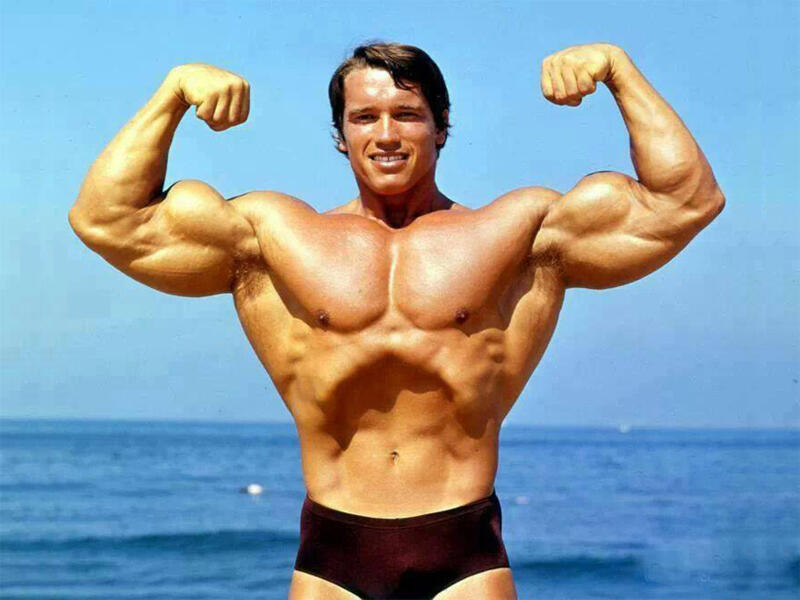
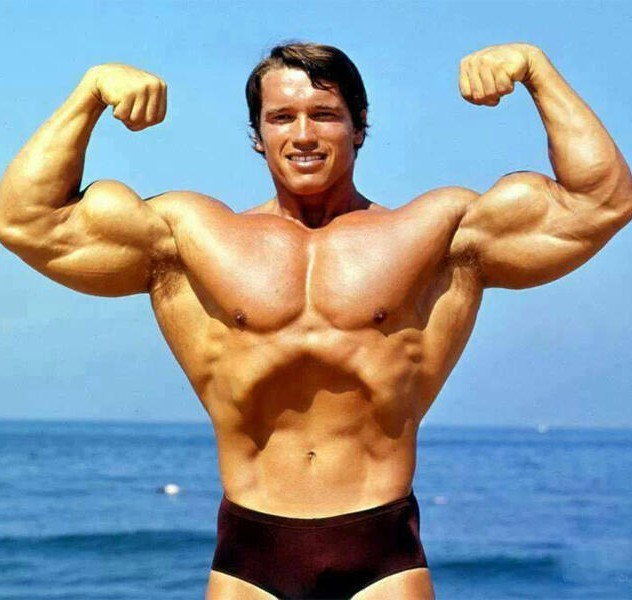
Added responsiveness

diff --git a/2.assigment/Ynetwork/public/css/Utils.css b/2.assigment/Ynetwork/public/css/Utils.css
@@ -1,0 +1,5 @@
+.center{
+    display: flex;
+    justify-content: center;
+    align-items: center;
+}

diff --git a/2.assigment/Ynetwork/resources/views/user/profile.blade.php b/2.assigment/Ynetwork/resources/views/user/profile.blade.php
@@ -4,7 +4,9 @@
 <head>
     <meta charset="UTF-8">
     <title>Profile</title>
+    <meta name="viewport" content="width=device-width, initial-scale=1">
     <link rel="icon" type="image/x-icon" href="../Images/Logo2.png">
+    <link rel="stylesheet" href="{{ asset('css/Utils.css') }}">
     <link rel="stylesheet" href="https://www.w3schools.com/w3css/5/w3.css">
     <link rel="stylesheet" href="https://cdnjs.cloudflare.com/ajax/libs/font-awesome/4.7.0/css/font-awesome.min.css">
     <link rel="stylesheet" href="{{ asset('css/SearchStyle.css') }}">
@@ -48,7 +50,7 @@
         <div class="w3-cell w3-cell-middle w3-left-align">
             <a href="{{ route('user.for-you') }}" class="w3-hover-opacity">
                 <img src="{{ asset('Images/Logo2.png') }}" alt="Logo" class="w3-image w3-hover-opacity logo-hover"
-                    style="height:80px;">
+                    style="height:80px; object-fit:cover; vertical-align:middle;">
             </a>
 
         </div>
@@ -61,18 +63,22 @@
                     style="position:absolute; right:10px; background:none; border:none; cursor:pointer; color:#000;">
                     <i class="fa fa-search"></i>
                 </button>
-            <div id="search-results" class="dropdown-menu show" style=" display: none; "></div>
+                <div id="search-results" class="dropdown-menu show" style=" display: none; "></div>
 
             </form>
         </div>
 
         <div class="w3-cell w3-cell-middle w3-right-align" style="width:25%;">
             <div class="w3-dropdown-hover w3-right w3-transparent">
-                  <img data-user-id="{{ auth()->user()->id }}" src="{{ auth()->user()->profile_picture }}" alt="User profile"
-                class="w3-image w3-circle" style="height:60px; object-fit:cover; vertical-align:middle;">
-                <div class="w3-dropdown-content w3-bar-block w3-border w3-border-black w3-round-xxlarge w3-animate-zoom" style="right:0">
-                <a href="{{ route('user.profile') }}" class="w3-bar-item w3-button w3-transparent w3-round-xxlarge">Profile</a>
-                <a href="{{ route('logout') }}" class="w3-bar-item w3-button w3-transparent w3-round-xxlarge">Logout</a>
+                <img data-user-id="{{ auth()->user()->id }}" src="{{ auth()->user()->profile_picture }}"
+                    alt="User profile" class="w3-image w3-circle"
+                    style="height:60px; object-fit:cover; vertical-align:middle;">
+                <div class="w3-dropdown-content w3-bar-block w3-border w3-border-black w3-round-xxlarge w3-animate-zoom"
+                    style="right:0">
+                    <a href="{{ route('user.profile') }}"
+                        class="w3-bar-item w3-button w3-transparent w3-round-xxlarge">Profile</a>
+                    <a href="{{ route('logout') }}"
+                        class="w3-bar-item w3-button w3-transparent w3-round-xxlarge">Logout</a>
                 </div>
             </div>
             <div class="w3-clear"></div>
@@ -91,18 +97,19 @@
 
         <div class="w3-row w3-margin-top ">
 
-            <div class="w3-col m3 ">
+        @if (auth()->user()->id === $profiledata->id)
+            <div class="w3-col l3 m6 s12">
+        @else
+            <div class="w3-col l12 m12 s12 center" style="margin: auto;">
+         @endif
+      
                 <x-profile-structure :profiledata="$profiledata"></x-profile-structure>
+                
             </div>
-            <div class="w3-col m7">
-                <div class="w3-col w3-center">
-
-
-                    <div class="w3-container w3-padding-small">
-
-                        @if (auth()->user()->id === $profiledata->id)
-
-
+            @if (auth()->user()->id === $profiledata->id)
+                <div class="w3-col l6 m6 s12">
+                    <div class="w3-col w3-center">
+                        <div class="w3-container w3-padding-small">
                             <div class="w3-container w3-card w3-white w3-round-xlarge w3-margin"><br>
                                 <img src="{{ auth()->user()->profile_picture }}" alt="Avatar"
                                     class="w3-left w3-circle   w3-margin-right" style="width:60px">
@@ -112,7 +119,8 @@
                                 <form action="{{ route('posts.store') }}" method="post">
                                     @csrf
 
-                                    <input class="w3-input w3-bold w3-round-xxlarge w3-padding-large w3-border-black w3-border"
+                                    <input
+                                        class="w3-input w3-bold w3-round-xxlarge w3-padding-large w3-border-black w3-border"
                                         type="text" placeholder="Post Title" id="title" name="title" required><br>
                                     <textarea class="w3-input w3-round-xxlarge w3-padding-large w3-border-black w3-border"
                                         name="body" id="body" rows="3" required
@@ -120,58 +128,48 @@
                                     <button
                                         class="w3-button w3-black w3-round-xxlarge w3-padding-large w3-block w3-margin-bottom"
                                         type="submit">Post</button>
-
                                 </form>
-
-
                             </div><br>
-
-                        @endif
-
-                        @if (auth()->user()->id === $profiledata->id)
-                            <h1 class="w3-xxxlarge w3-bold">Your Posts</h1>
-                        @else
-                        <h1 class="w3-xxxlarge w3-bold">{{ $profiledata->first_name }}'s Posts</h1>
-                        @endif
-
-
-                        @foreach ($posts as $post)
-                            <x-post-structure :post="$post" :showActions=" auth()->user()->id === $profiledata->id "/>
-                        @endforeach
-
+                        </div>
                     </div>
+                </div>
+            @endif
 
+            @if (auth()->user()->id === $profiledata->id)
+                <div class="w3-col l3 m12 s12">
+                    <div class="w3-col w3-center">
+                        <div class="w3-container w3-padding-small">
+                            <div class="w3-container w3-card w3-white w3-round-xlarge w3-margin"><br>
+                                <h4 class="w3-bold">Chats</h4>
+                            </div>
+                            <div class="w3-container w3-card w3-white w3-round-xlarge w3-margin"><br>
+                                <h4 class="w3-bold">Friend requests</h4>
+                            </div>
+                        </div>
+                    </div>
+                </div>
+            @endif
+            @if (auth()->user()->id === $profiledata->id)
+                <div class="w3-col l12 m12 s12 center" >
+            @else
+                    <div class="w3-col l12 m12 s12 center" >
+                    
+                @endif
+                <div class="w3-col w3-center" style="max-width:800px; margin:auto;">
+                    <div class="w3-container w3-padding-small"></div>
+                    @if (auth()->user()->id === $profiledata->id)
+                        <h1 class="w3-xxxlarge w3-bold">Your Posts</h1>
+                    @else
+                        <h1 class="w3-xxxlarge w3-bold">{{ $profiledata->first_name }}'s Posts</h1>
+                    @endif
+                    @foreach ($posts as $post)
+                        <x-post-structure :post="$post" :showActions="auth()->user()->id === $profiledata->id" />
+                    @endforeach
                 </div>
             </div>
-
-            <div class="w3-col m2">
-                <div class="w3-col w3-center">
-
-
-                    <div class="w3-container w3-padding-small">
-
-                        <div class="w3-container w3-card w3-white w3-round-xlarge w3-margin"><br>
-                        <h4 class="w3-bold">Chats</h4>
-
-                        </div>
-                        <div class="w3-container w3-card w3-white w3-round-xlarge w3-margin"><br>
-                        <h4 class="w3-bold">Friend requests</h4>
-
-                        </div>
-                    </div>
-
-                    </div>
-
-            </div>
-
         </div>
     </div>
-
-
-
-  
-
-
+    </div>
 </body>
 
 <footer>

diff --git a/2.assigment/Ynetwork/resources/views/user/edit-post.blade.php b/2.assigment/Ynetwork/resources/views/user/edit-post.blade.php
@@ -4,6 +4,7 @@
 <head>
     <meta charset="UTF-8">
     <title>Edit Post</title>
+    <meta name="viewport" content="width=device-width, initial-scale=1">
     <link rel="icon" type="image/x-icon" href="../Images/Logo2.png">
     <link rel="stylesheet" href="https://www.w3schools.com/w3css/5/w3.css">
     <link rel="stylesheet" href="https://cdnjs.cloudflare.com/ajax/libs/font-awesome/4.7.0/css/font-awesome.min.css">
@@ -48,7 +49,7 @@
         <div class="w3-cell w3-cell-middle w3-left-align">
             <a href="{{ route('user.for-you') }}" class="w3-hover-opacity">
                 <img src="{{ asset('Images/Logo2.png') }}" alt="Logo" class="w3-image w3-hover-opacity logo-hover"
-                    style="height:80px;">
+                    style="height:80px; object-fit:cover; vertical-align:middle;">
             </a>
 
         </div>
@@ -61,19 +62,22 @@
                     style="position:absolute; right:10px; background:none; border:none; cursor:pointer; color:#000;">
                     <i class="fa fa-search"></i>
                 </button>
-                         <div id="search-results" class="dropdown-menu show" style="width: 100%; display: none;"></div>
-    
+                <div id="search-results" class="dropdown-menu show" style="width: 100%; display: none;"></div>
+
             </form>
         </div>
-        
+
 
         <div class="w3-cell w3-cell-middle w3-right-align" style="width:25%;">
             <div class="w3-dropdown-hover w3-right w3-transparent">
-                  <img data-user-id="{{ auth()->user()->id }}" src="/profilePictures/{{ auth()->user()->id }}.png" alt="User profile"
-                class="w3-image w3-circle" style="height:60px; object-fit:cover; vertical-align:middle;">
-                <div class="w3-dropdown-content w3-bar-block w3-border w3-border-black w3-round-xxlarge w3-animate-zoom" style="right:0">
-                <a href="{{ route('user.profile') }}" class="w3-bar-item w3-button w3-transparent w3-round-xxlarge">Profile</a>
-                <a href="#" class="w3-bar-item w3-button w3-transparent w3-round-xxlarge">Logout</a>
+                <img data-user-id="{{ auth()->user()->id }}" src="{{ auth()->user()->profile_picture }}"
+                    alt="User profile" class="w3-image w3-circle"
+                    style="height:60px; object-fit:cover; vertical-align:middle;">
+                <div class="w3-dropdown-content w3-bar-block w3-border w3-border-black w3-round-xxlarge w3-animate-zoom"
+                    style="right:0">
+                    <a href="{{ route('user.profile') }}"
+                        class="w3-bar-item w3-button w3-transparent w3-round-xxlarge">Profile</a>
+                    <a href="#" class="w3-bar-item w3-button w3-transparent w3-round-xxlarge">Logout</a>
                 </div>
             </div>
             <div class="w3-clear"></div>
@@ -86,30 +90,27 @@
 </header>
 
 <body>
-    
-<div class="w3-container w3-content" style="max-width:1400px;margin-top:80px">
 
-<h2 class="w3-bold w3-center">Edit my post</h2>
+    <div class="w3-container w3-content" style="max-width:1400px;margin-top:80px">
 
-<div class="w3-container w3-card w3-white w3-round-xlarge" 
-     style="max-width:800px; margin:40px auto;"><br>
-                            
-    <form action="{{ route('posts.update', $post->id) }}" method="post">
-                    @csrf
-                    @method('PUT')
-        <input class="w3-input w3-round-xxlarge w3-padding-large w3-border-black w3-border w3-bold"
-            type="text" value="{{ $post->title }}" id="title" name="title" required><br>
-        <textarea class="w3-input w3-round-xxlarge w3-padding-large w3-border-black w3-border"
-            name="body" id="body" rows="3" required
-            >{{ $post->body }}</textarea><br>
-        <button
-            class="w3-button w3-black w3-round-xxlarge w3-padding-large w3-block w3-margin-bottom"
-            type="submit">Update Post</button>
+        <h2 class="w3-bold w3-center">Edit my post</h2>
 
-    </form>
+        <div class="w3-container w3-card w3-white w3-round-xlarge" style="max-width:800px; margin:40px auto;"><br>
 
-</div><br>
-</div>
+            <form action="{{ route('posts.update', $post->id) }}" method="post">
+                @csrf
+                @method('PUT')
+                <input class="w3-input w3-round-xxlarge w3-padding-large w3-border-black w3-border w3-bold" type="text"
+                    value="{{ $post->title }}" id="title" name="title" required><br>
+                <textarea class="w3-input w3-round-xxlarge w3-padding-large w3-border-black w3-border" name="body"
+                    id="body" rows="3" required>{{ $post->body }}</textarea><br>
+                <button class="w3-button w3-black w3-round-xxlarge w3-padding-large w3-block w3-margin-bottom"
+                    type="submit">Update Post</button>
+
+            </form>
+
+        </div><br>
+    </div>
 </body>
 
 <footer>

diff --git a/2.assigment/Ynetwork/resources/views/user/for-you.blade.php b/2.assigment/Ynetwork/resources/views/user/for-you.blade.php
@@ -4,6 +4,7 @@
 <head>
     <meta charset="UTF-8">
     <title>For you page</title>
+    <meta name="viewport" content="width=device-width, initial-scale=1">
     <link rel="icon" type="image/x-icon" href="../Images/Logo2.png">
     <link rel="stylesheet" href="https://www.w3schools.com/w3css/5/w3.css">
     <link rel="stylesheet" href="https://cdnjs.cloudflare.com/ajax/libs/font-awesome/4.7.0/css/font-awesome.min.css">
@@ -48,7 +49,7 @@
         <div class="w3-cell w3-cell-middle w3-left-align">
             <a href="{{ route('user.for-you') }}" class="w3-hover-opacity">
                 <img src="{{ asset('Images/Logo2.png') }}" alt="Logo" class="w3-image w3-hover-opacity logo-hover"
-                    style="height:80px;">
+                   style="height:80px; object-fit:cover; vertical-align:middle;">
             </a>
 
         </div>
@@ -61,19 +62,23 @@
                     style="position:absolute; right:10px; background:none; border:none; cursor:pointer; color:#000;">
                     <i class="fa fa-search"></i>
                 </button>
-                         <div id="search-results" class="dropdown-menu show" style="width: 100%; display: none;"></div>
-    
+                <div id="search-results" class="dropdown-menu show" style="width: 100%; display: none;"></div>
+
             </form>
         </div>
-        
+
 
         <div class="w3-cell w3-cell-middle w3-right-align" style="width:25%;">
             <div class="w3-dropdown-hover w3-right w3-transparent">
-                  <img data-user-id="{{ auth()->user()->id }}" src="{{ auth()->user()->profile_picture }}" alt="User profile"
-                class="w3-image w3-circle" style="height:60px; object-fit:cover; vertical-align:middle;">
-                <div class="w3-dropdown-content w3-bar-block w3-border w3-border-black w3-round-xxlarge w3-animate-zoom" style="right:0">
-                <a href="{{ route('user.profile') }}" class="w3-bar-item w3-button w3-transparent w3-round-xxlarge">Profile</a>
-                <a href="{{ route('logout') }}" class="w3-bar-item w3-button w3-transparent w3-round-xxlarge">Logout</a>
+                <img data-user-id="{{ auth()->user()->id }}" src="{{ auth()->user()->profile_picture }}"
+                    alt="User profile" class="w3-image w3-circle"
+                    style="height:60px; object-fit:cover; vertical-align:middle;">
+                <div class="w3-dropdown-content w3-bar-block w3-border w3-border-black w3-round-xxlarge w3-animate-zoom"
+                    style="right:0">
+                    <a href="{{ route('user.profile') }}"
+                        class="w3-bar-item w3-button w3-transparent w3-round-xxlarge">Profile</a>
+                    <a href="{{ route('logout') }}"
+                        class="w3-bar-item w3-button w3-transparent w3-round-xxlarge">Logout</a>
                 </div>
             </div>
             <div class="w3-clear"></div>
@@ -103,7 +108,7 @@
         </div>
     </div>
 
- 
+
 
     @include('components.chat-bar')
 

diff --git a/2.assigment/Ynetwork/resources/views/components/profile-structure.blade.php b/2.assigment/Ynetwork/resources/views/components/profile-structure.blade.php
@@ -1,5 +1,4 @@
-<aside class="w3-card w3-round-large w3-padding w3-light-grey w3-margin w3-center" aria-labelledby="user-name"
-    style="max-width:400px; margin:auto;">
+<aside class="w3-card w3-round-large w3-padding w3-light-grey w3-margin w3-center" aria-labelledby="user-name">
     <h3 class="w3-xxlarge w3-bold">My Profile</h3>
     <!-- Profile Picture -->
     <img class="w3-circle w3-border w3-margin-bottom " src="{{ $profiledata->profile_picture }}"
@@ -15,14 +14,11 @@
 
             <!-- Bio -->
             @can('update', $profiledata)
-                <textarea id="bio" name="bio" class="w3-border w3-round-large w3-padding-small w3-white w3-margin-bottom">
-                                        {{ $profiledata->bio }}
-                                    </textarea>
+                <textarea id="bio" name="bio" class="w3-border w3-round-large w3-padding-small w3-white w3-margin-bottom"
+                    style="resize:none; width:100%; box-sizing:border-box;">{{ $profiledata->bio }}</textarea>
             @else
                 <textarea disabled id="bio" name="bio"
-                    class="w3-border w3-round-large w3-padding-small w3-white w3-margin-bottom">
-                                    {{ $profiledata->bio }}
-                                    </textarea>
+                    class="w3-border w3-round-large w3-padding-small w3-white w3-margin-bottom" style="resize:none; width:100%; box-sizing:border-box;">{{ $profiledata->bio }}</textarea>
             @endcan
 
             <!-- Stats -->
@@ -56,14 +52,14 @@
         </form>
         @if (auth()->user()->is_admin)
             <form action="{{ route('users.destroy', $profiledata) }}" method="post" style="display:inline;">
-                    @csrf
-                    @method('DELETE')
-                    <button type="submit" class="w3-button w3-black w3-round-xxlarge w3-margin-top"
-                        onclick="return confirm('Are you sure you want to delete this profile?');">
-                        Delete this profile <i class="fa fa-trash"></i>
-                    </button>
-                </form>
-        </button>
+                @csrf
+                @method('DELETE')
+                <button type="submit" class="w3-button w3-black w3-round-xxlarge w3-margin-top"
+                    onclick="return confirm('Are you sure you want to delete this profile?');">
+                    Delete this profile <i class="fa fa-trash"></i>
+                </button>
+            </form>
+            
         @endif
     </section>
 </aside>

diff --git a/2.assigment/Ynetwork/resources/views/auth/login.blade.php b/2.assigment/Ynetwork/resources/views/auth/login.blade.php
@@ -18,7 +18,8 @@
                     Login
                 </button>
                 <hr class="w3-border-black w3-margin" style="border-width:2px;">
-                <a class="w3-button w3-black w3-round-xxlarge w3-padding-large w3-block w3-margin-bottom" href="/reset-request">
+                <a class="w3-button w3-black w3-round-xxlarge w3-padding-large w3-block w3-margin-bottom"
+                    href="/reset-request">
                     Reset Password
                 </a>
 
